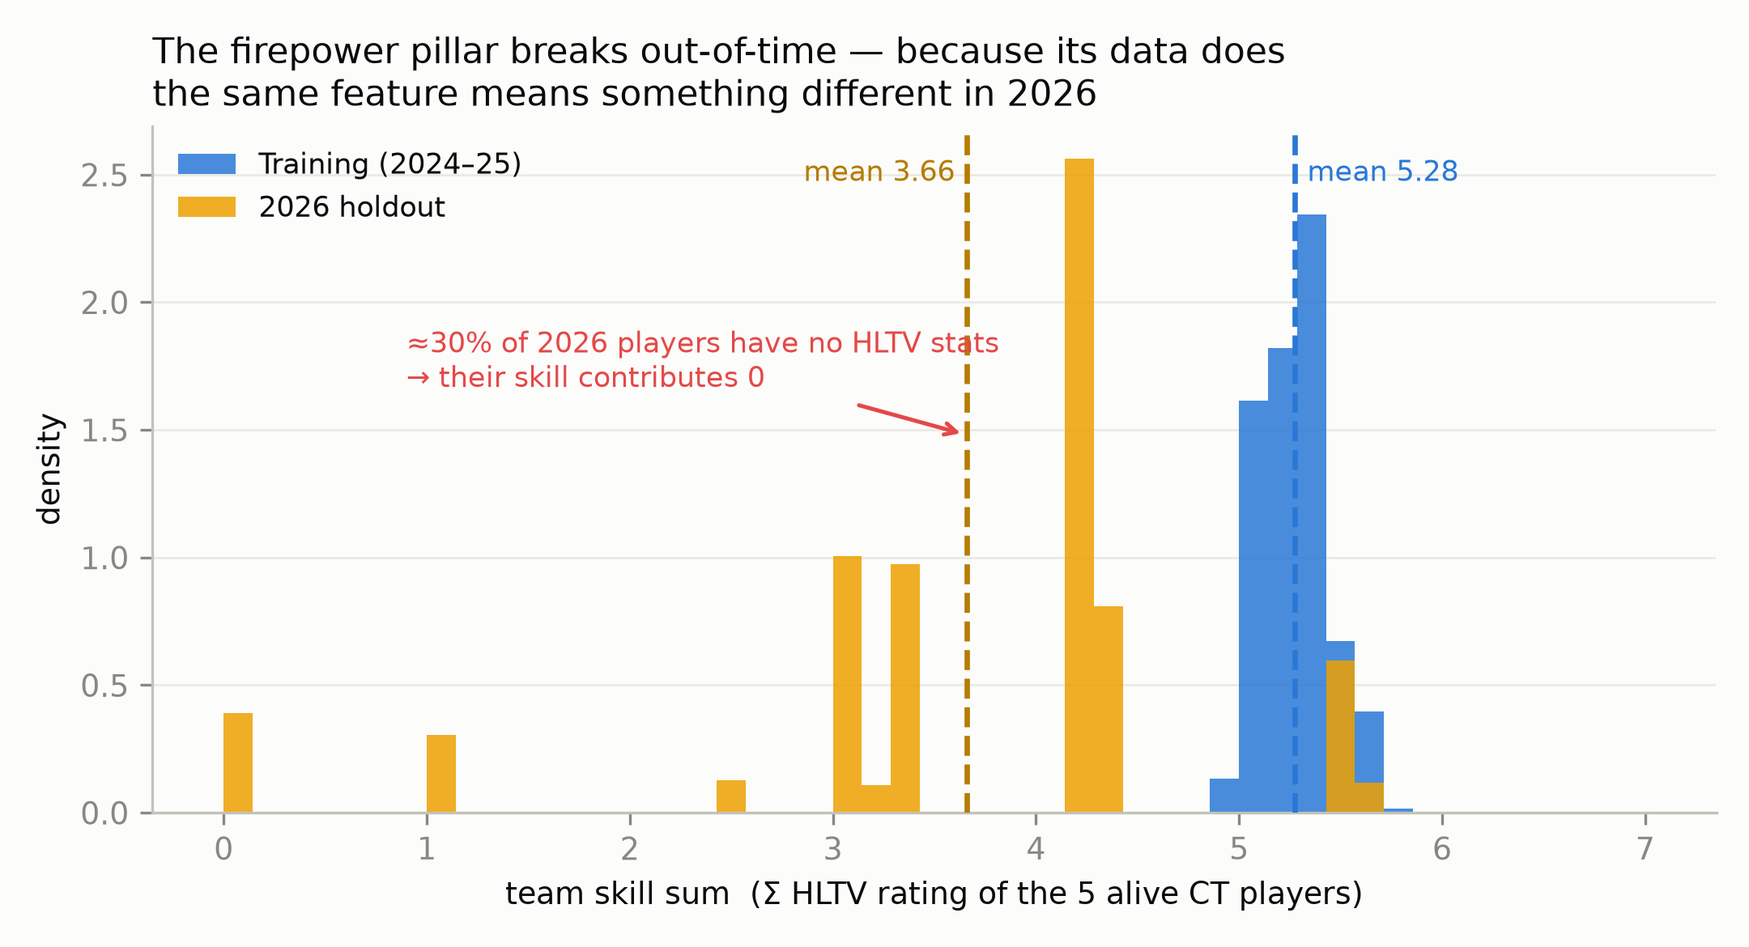
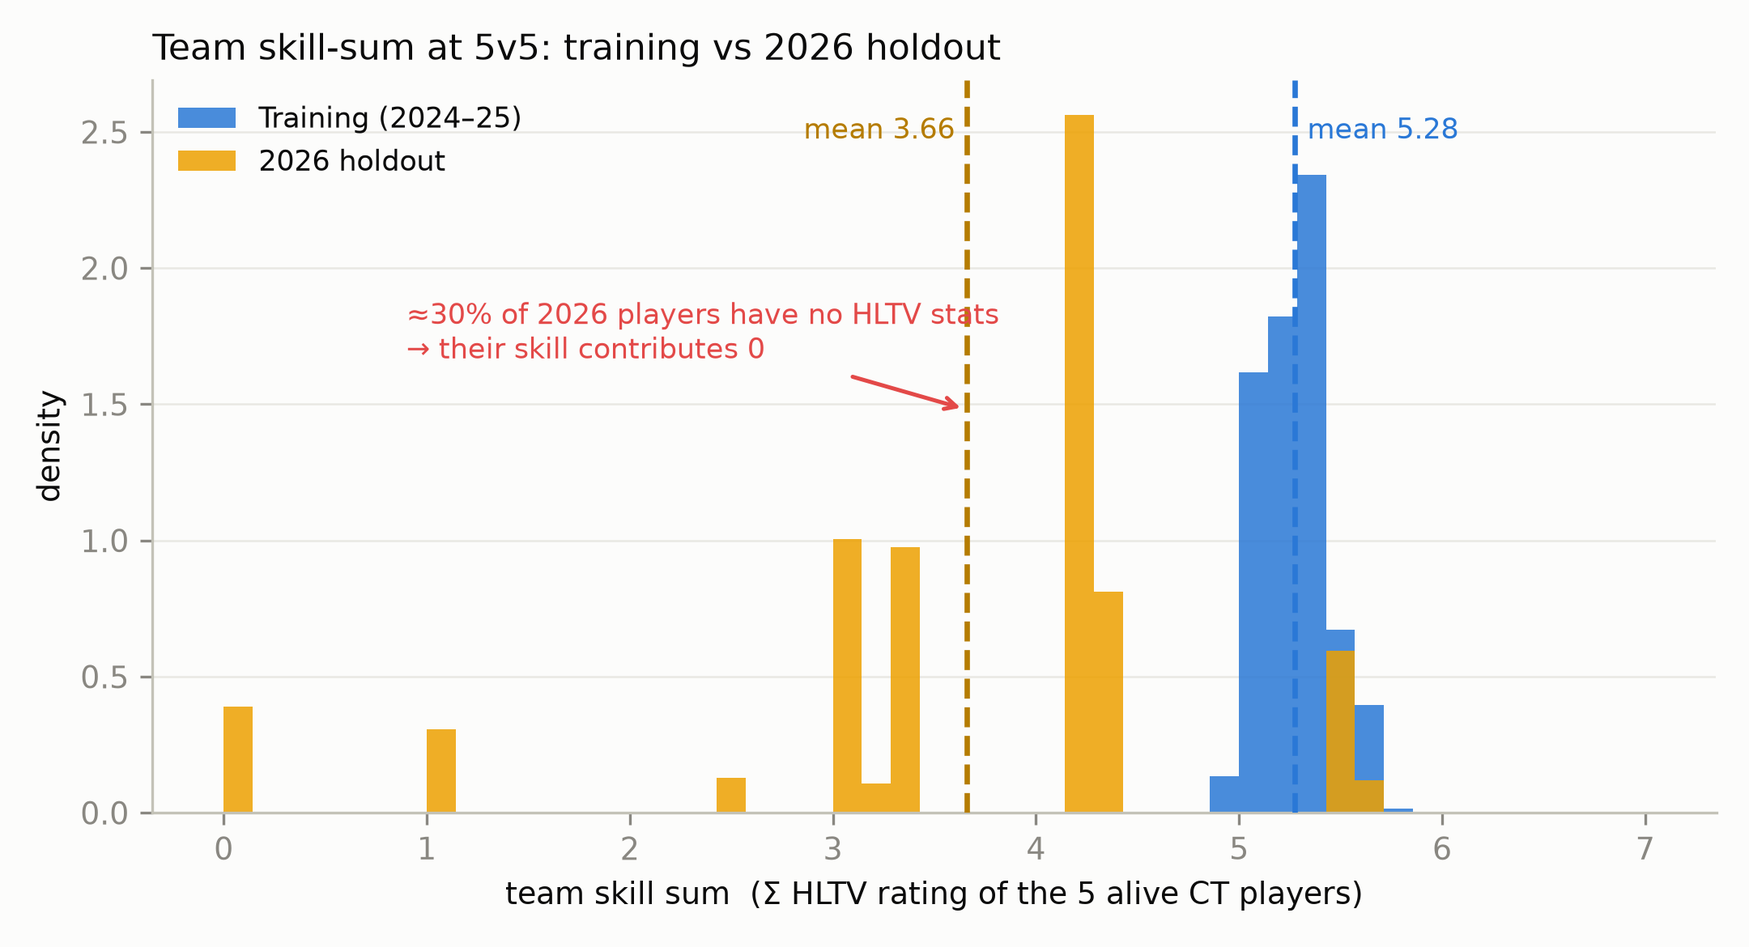
Paper v5: professionalization pass part 1 + de-editorialized figures
Begins the move to submission register (formal, result-first, concise;
no colloquialisms or em-dash asides), per the paper-writing-style
standard.

- Abstract and Introduction rewritten to formal academic register.
- Removed the 'A note on what this draft is' lab-notebook subsection.
- New 'Uncertainty and significance testing' subsection states the
  method precisely: paired match-level block bootstrap on the
  difference; a lift is significant iff the paired dAUC CI excludes
  zero; overlapping marginal CIs do NOT imply non-significance. This is
  the rigorous basis for 'pillars beat baseline (sig)' vs 'nine
  architectures tie (not sig)'.
- All paper figure titles de-editorialized (F1/F2/F4/F6): the title now
  states what the figure shows, the message moves to the caption, as in
  a published paper. Figures regenerated.

Deferred to part 2 (after firepower v3): results/discussion register
pass, and cutting the 'Chronology' section (its firepower content will
change with v3, so finalizing now is premature).

diff --git a/docs/paper/tex/main.tex b/docs/paper/tex/main.tex
@@ -47,7 +47,7 @@
 % regenerated.  The version is stamped on the title page so that a
 % printed or emailed PDF is never ambiguous about which draft it is.
 % ---------------------------------------------------------------------
-\newcommand{\draftversion}{v4}
+\newcommand{\draftversion}{v5}
 
 \title{\textbf{Where Win Probability Comes From --- and Where It Breaks}\\[2mm]
 \large Spatial Control, Bomb Geometry, and an Out-of-Time Reality Check
@@ -65,49 +65,47 @@ University of Pennsylvania. \texttt{hyhuang@sas.upenn.edu}}
 
 \begin{abstract}
 \noindent
-Live win-probability models are now standard broadcast furniture in esports, yet
-the published Counter-Strike literature evaluates them almost exclusively on
-economy and combat state, pooled over all game situations, and validated only by
-cross-validation. We build a per-second win-probability model for
-Counter-Strike~2 (map: \textit{de\_inferno}) from 220 professional matches
-(476{,}595 per-second snapshots) and use it to ask three questions the pooled-AUC
-convention obscures: \emph{where} does the signal live, \emph{which} spatial
-representation is predictive, and \emph{does any of it survive deployment?}
+Live win-probability models are widely deployed in esports broadcasting, yet the
+published Counter-Strike literature evaluates them almost exclusively on economy and
+combat state, pooled across all game situations, and validated only by
+cross-validation. We build a per-second win-probability model for Counter-Strike~2
+on the map \textit{de\_inferno} from 220 professional matches (476{,}595 per-second
+snapshots) and use it to examine three questions that pooled AUC obscures: where the
+predictive signal is concentrated, which spatial representation is most predictive,
+and whether the model's performance survives temporal distribution shift.
 
-First, the conventional headline AUC ($\approx 0.85$) is carried almost entirely
-by lopsided game states; restricted to genuinely even rounds --- equal players
-alive and equal equipment --- every model falls to $\approx 0.58$, barely above a
-coin flip. We formalise this as \emph{contested-AUC} and argue it, not pooled AUC,
-is the metric a live model should be judged on. Second, adapting Voronoi pitch
-control from football, we compare three increasingly \emph{physically faithful}
-map-control representations and find that faithfulness and predictiveness diverge:
-an instantaneous line-of-sight / field-of-view / smoke model is the most realistic
-and the \emph{least} predictive, regaining parity with naive proximity control
-only once it is given temporal memory. Territorial control is predictive because it
-is \emph{stable}, not because it is \emph{correct}. Third, a physically-motivated
-\emph{defuse-race} feature --- fuse time remaining minus the nearest
-counter-terrorist's path time minus the defuse duration --- is the single strongest
-addition beyond economy, cutting post-plant log-loss by 7--8\,\%. Fourth, across
-nine architectures (logistic regression, random forest, XGBoost, LightGBM,
-CatBoost, a causal TCN, a causal Transformer, a player-graph attention network, and
-an ensemble), with match-level block-bootstrap confidence intervals, \emph{all} are
-statistically indistinguishable --- a dead heat that persists out-of-time, where the sequence
-models land exactly on the classical number.
+We report four findings. First, the conventional AUC of approximately $0.85$ is
+attributable predominantly to lopsided game states. Restricted to even rounds, defined
+as equal players alive and near-equal equipment, every model attains an AUC of
+approximately $0.58$. We term this conditional measure \emph{contested-AUC} and argue
+that it, rather than pooled AUC, is the appropriate criterion for a live model. Second,
+we adapt Voronoi pitch control from association football and compare three map-control
+representations of increasing physical fidelity. Fidelity and predictiveness diverge:
+an instantaneous line-of-sight, field-of-view, and smoke model is the most realistic
+representation and the least predictive, and it regains parity with proximity-based
+control only when augmented with temporal memory. Predictive value derives from the
+temporal stability of the representation rather than its instantaneous accuracy. Third,
+a physically motivated \emph{defuse-race} feature, defined as the fuse time remaining
+minus the nearest counter-terrorist's path time and defuse duration, is the strongest
+single addition beyond economy and reduces post-plant log-loss by 7--8\%. Fourth, across
+nine architectures (logistic regression, random forest, XGBoost, LightGBM, CatBoost, a
+causal temporal convolutional network, a causal Transformer, a player-graph attention
+network, and an ensemble), evaluated with match-level block-bootstrap confidence
+intervals, the models are statistically indistinguishable, both in cross-validation and
+out-of-time.
 
-Finally, we subject the model to a \textbf{touch-once out-of-time holdout} on 27
-unseen 2026 matches. The demo-derived pillars transfer essentially perfectly
-($0.8493 \to 0.8501$), but the best in-sample configuration becomes the
-\emph{worst} out-of-time ($0.8519 \to 0.8236$, ECE $0.016 \to 0.071$) because its
-player-skill pillar carries an \emph{inference-time data dependency}: it requires
-an external, per-era player database that the deployment era does not yet have. We
-argue this failure mode --- invisible to cross-validation by construction --- is a
-general hazard for any ``prior'' feature sourced outside the observation itself.
-Repairing the dependency across three constructions --- a leak-free \emph{lagged}
-prior, and even a leaky same-era \emph{oracle} at 100\,\% coverage --- restores
-calibration completely, yet the skill pillar \emph{still} fails to beat the
-demo-only model out-of-time under \emph{any} of them. This turns a plumbing bug
-into a rigorous negative result: even a correctly-constructed, coverage-complete
-external skill prior is not worth its cost here.
+We then evaluate the model once on a temporally held-out set of 27 unseen 2026 matches.
+The features derived from the match itself transfer with negligible degradation
+($0.8493 \to 0.8501$), whereas the best cross-validated configuration degrades most
+($0.8519 \to 0.8236$; expected calibration error $0.016 \to 0.071$) because its
+player-skill pillar depends on an external, per-era statistics database that is
+incomplete for the deployment period. This failure mode is invisible to
+cross-validation by construction. Reconstructing the prior under three data
+regimes, including a leak-free lagged prior and a leaky same-era prior at full
+coverage, restores calibration but does not enable the skill pillar to exceed the
+skill-free model out-of-time under any regime. The result is a controlled negative
+finding: a correctly constructed, coverage-complete external skill prior does not
+improve out-of-time performance in this setting.
 \end{abstract}
 
 \tableofcontents
@@ -119,62 +117,51 @@ external skill prior is not worth its cost here.
 \section{Introduction}
 \label{sec:intro}
 
-Win probability is the interpretive backbone of live sports coverage: it converts a
-complex state into one number a viewer can act on. In esports the state is unusually
-rich --- every player's position, velocity, view angle, health, equipment and utility
-are recorded at 64\,Hz --- and yet published Counter-Strike win-probability models
-remain dominated by \emph{economy} features (equipment value, players alive, bomb
-status). The spatial half of the game, which players and analysts talk about
-constantly (``we lost map control'', ``they're stacked B''), is largely unmodelled.
+Win probability converts a complex game state into a single interpretable quantity and
+is a standard component of live sports analytics. In esports the underlying state is
+unusually detailed: each player's position, velocity, view angle, health, equipment,
+and utility are recorded at 64\,Hz. Nonetheless, published Counter-Strike
+win-probability models remain dominated by economy features such as equipment value,
+players alive, and bomb status. The spatial component of the game, which is central to
+expert reasoning, is largely unmodelled.
 
-Three methodological habits in this literature obscure how good these models really
-are:
-
-\begin{enumerate}
-  \item \textbf{Pooled evaluation.} A single AUC over all snapshots mixes 5-v-1
-    blowouts with 5-v-5 stalemates. A model that only knows ``who has more players
-    and money'' scores well because most snapshots are easy.
-  \item \textbf{Faithfulness assumed to imply predictiveness.} Richer spatial models
-    (line-of-sight, vision cones, smoke occlusion) are assumed superior because they
-    are physically truer.
-  \item \textbf{Cross-validation as the final gate.} Random or grouped folds sample
-    from the same era as training; they cannot see failures that appear only when the
-    world moves on.
-\end{enumerate}
+We identify three methodological conventions in this literature that obscure how
+predictive these models actually are. First, evaluation is pooled: a single AUC computed
+over all snapshots aggregates decided situations (for example, five players against one)
+with genuinely uncertain ones (five against five on equal economy), and a model that
+captures only headcount and equipment scores well because most snapshots are easily
+classified. Second, physical fidelity is assumed to imply predictiveness: representations
+that model line of sight, field of view, and smoke occlusion are presumed superior
+because they more faithfully describe the game. Third, cross-validation is treated as the
+final validation step, even though random or grouped folds are drawn from the same period
+as the training data and cannot expose failures that arise under temporal distribution
+shift.
 
 \subsection{Contributions}
 
 \begin{itemize}
-  \item \textbf{C1 --- Contested-AUC} (Sect.~\ref{sec:contested}). A conditional
-    evaluation lens. Restricting to snapshots with equal players alive \emph{and}
-    near-equal equipment, the economy baseline falls from $0.846$ to
-    $\mathbf{0.580}$. Pooled AUC systematically flatters win-probability models.
-  \item \textbf{C2 --- Three map-control representations, and a negative result}
-    (Sect.~\ref{sec:mapcontrol}). The most physically faithful is the least
-    predictive; temporal memory restores it. \emph{Predictiveness comes from
-    stability, not fidelity.}
-  \item \textbf{C3 --- Defuse-race geometry} (Sect.~\ref{sec:bomb}). One
-    physically-derived feature is the strongest post-economy addition, cutting
-    post-plant log-loss 7--8\,\% while \emph{preserving} calibration.
-  \item \textbf{C4 --- Nine architectures, one dead heat, and an out-of-time reality
-    check} (Sects.~\ref{sec:deep}, \ref{sec:holdout}). Sequence and graph deep models
-    are statistically tied with a calibrated logistic regression; and on a touch-once
-    2026 holdout the skill-prior pillar collapses through an inference-time data
-    dependency while the demo-derived pillars transfer intact.
+  \item \textbf{Contested-AUC} (Sect.~\ref{sec:contested}). We introduce a conditional
+    evaluation measure restricted to snapshots with equal players alive and near-equal
+    equipment. Under this measure the economy baseline falls from $0.846$ to $0.580$,
+    demonstrating that pooled AUC substantially overstates model performance in the
+    situations that determine round outcomes.
+  \item \textbf{A map-control ablation} (Sect.~\ref{sec:mapcontrol}). We compare three
+    representations of increasing physical fidelity and find that the most faithful is
+    the least predictive, and that adding temporal memory restores its predictive value.
+    Predictiveness follows from temporal stability rather than instantaneous fidelity.
+  \item \textbf{Defuse-race geometry} (Sect.~\ref{sec:bomb}). A single physically
+    derived feature is the strongest addition beyond economy, reducing post-plant
+    log-loss by 7--8\% without degrading calibration.
+  \item \textbf{An out-of-time evaluation of nine architectures} (Sects.~\ref{sec:deep},
+    \ref{sec:holdout}). Sequence and graph neural models are statistically
+    indistinguishable from a calibrated logistic regression, in cross-validation and
+    out-of-time. On a temporally held-out 2026 set, the player-skill pillar degrades
+    sharply through a dependence on an external, per-era database, while the features
+    derived directly from the match transfer intact.
 \end{itemize}
 
-We believe C4 is the most transferable lesson: it is a statement about evaluation
-protocol, not about Counter-Strike.
-
-\subsection{A note on what this draft is}
-
-This is a \emph{working draft} and it documents the \textbf{process}, not only the
-conclusions. Where we built something that did not work --- an instantaneous vision
-model that under-performed a cruder one, two bomb features that added nothing, a
-skill pillar whose top-ranked feature turned out to be a re-encoding of the player
-count --- we report it, with the diagnostic figure that revealed it. Sect.~\ref{sec:chronology}
-gives the chronology explicitly. Negative results are the majority of the work and
-we treat them as first-class.
+The final contribution is the most general: it concerns evaluation protocol for models
+that incorporate externally sourced features, and is not specific to Counter-Strike.
 
 % =====================================================================
 \section{Related Work}
@@ -492,26 +479,37 @@ inflates AUC. All in-time numbers in this paper are out-of-fold (OOF) prediction
     to bin placement); and a comeback/tail diagnostic (Sect.~\ref{sec:calibration}).
 \end{description}
 
-\subsection{Uncertainty}
-\textbf{Match-level block bootstrap} ($B = 500$). \emph{Matches}, not snapshots, are the
-independent resampling unit; each iteration draws all matches with replacement and
-recomputes \emph{every} metric on the fixed OOF predictions. This yields 95\,\% CIs on
-AUC, log-loss, Brier, ECE, BSS and contested-AUC alike.
+\subsection{Uncertainty and significance testing}
+\label{sec:significance}
+We quantify uncertainty with a match-level block bootstrap ($B = 500$). Matches, rather
+than snapshots, are the independent resampling unit, because rounds within a match are
+strongly correlated; treating the $476{,}595$ snapshots as independent would understate
+every interval by more than an order of magnitude. Each bootstrap iteration draws the set
+of matches with replacement and recomputes the metric on the fixed out-of-fold
+predictions, yielding percentile 95\% confidence intervals.
 
-This choice is load-bearing. Treating the $\approx$476k snapshots as independent would
-shrink every interval by more than an order of magnitude and make all of our pillar
-effects look spuriously decisive --- and would, in particular, have let us claim the deep
-models beat the classical ones. They do not (Sect.~\ref{sec:deep}). DeLong's test
-corroborates the AUC differences; deep models additionally report a multi-seed mean $\pm$
-sd.
+Comparisons between two feature sets or two models use a \emph{paired} bootstrap: on each
+resample we evaluate both configurations on the same set of matches and record their
+difference, and we report the 95\% interval of that difference. A feature set is deemed to
+improve on the baseline when the paired interval of the AUC difference excludes zero. This
+paired construction is essential, because the two configurations produce strongly
+correlated errors, and the interval of the difference is therefore substantially narrower
+than a comparison of the two marginal intervals would suggest. Overlap of two marginal
+confidence intervals does not imply that their difference is non-significant; the paired
+difference is the correct test \cite{delong1988comparing}. Under this test the pillar
+contributions relative to the economy baseline are significant on AUC, whereas the nine
+architectures are mutually indistinguishable (Sects.~\ref{sec:contested}, \ref{sec:deep}).
+DeLong's test corroborates the AUC differences, and the deep models additionally report a
+multi-seed mean and standard deviation. Significance is established formally on AUC; the
+proper scoring rules (log-loss, Brier) improve monotonically with it but are reported as
+point estimates with marginal intervals.
 
-\subsection{Out-of-time}
-A \textbf{touch-once} 2026 holdout (Sect.~\ref{sec:holdout}). We ran it exactly once. No
-model, feature or hyperparameter decision in this paper was made after seeing it. We state
-this explicitly because the holdout is the source of our headline claim, and its
-evidential value is entirely contingent on that discipline. Any subsequent re-run (e.g.\
-after the 2026 skill scrape completes) must be reported as a separate, disclosed
-evaluation --- not folded silently into these numbers.
+\subsection{Out-of-time evaluation}
+The 2026 holdout is evaluated exactly once. No model, feature, or hyperparameter decision
+was made after observing it, because the evidential value of a held-out evaluation is
+contingent on that discipline. Any subsequent re-evaluation, such as after an updated
+skill database becomes available, is reported as a separate and explicitly disclosed
+result rather than combined with the original.
 
 % =====================================================================
 \section{Results}

diff --git a/src/viz/paper_figures.py b/src/viz/paper_figures.py
@@ -80,8 +80,7 @@ def fig_forest():
     ax.axvline(0.8531, color=MUTED, ls=":", lw=1, zorder=1)
     ax.set_yticks(y); ax.set_yticklabels([r[0] for r in rows], fontsize=8.5)
     ax.set_xlabel("AUC  (5-fold GroupKFold OOF, 95% match-level bootstrap CI, B=500)")
-    ax.set_title("All nine architectures are statistically indistinguishable\n"
-                 "every point estimate lies inside the others' 95% CIs", fontsize=10.5, loc="left")
+    ax.set_title("Model AUC with 95% match-level bootstrap CIs", fontsize=10.5, loc="left")
     handles = [plt.Line2D([], [], color=c, marker=m, ls="-", lw=2, ms=7, label=k)
                for k, (c, m) in fam.items()]
     ax.legend(handles=handles, loc="lower right", frameon=False, fontsize=8.5)
@@ -121,9 +120,7 @@ def fig_collapse(df, y):
     ax.set_xticks(x); ax.set_xticklabels([s[0] for s in subsets], fontsize=8.5)
     ax.set_ylabel("AUC (out-of-fold, XGBoost)")
     ax.set_ylim(0.5, 0.90)
-    ax.set_title("The headline AUC is carried by lopsided snapshots\n"
-                 "in genuinely even rounds every model falls toward a coin-flip",
-                 fontsize=10.5, loc="left")
+    ax.set_title("AUC by round subset (XGBoost, out-of-fold)", fontsize=10.5, loc="left")
     ax.legend(frameon=False, fontsize=8.5, loc="upper right")
     ax.grid(axis="y", alpha=0.7, zorder=0); ax.set_axisbelow(True)
     fig.tight_layout(); fig.savefig(OUT / "F2_collapse.png", dpi=300); plt.close(fig)
@@ -183,8 +180,7 @@ def fig_datagap(tr, te):
                 arrowprops=dict(arrowstyle="->", color=RED, lw=1.2))
     ax.set_xlabel("team skill sum  (Σ HLTV rating of the 5 alive CT players)")
     ax.set_ylabel("density")
-    ax.set_title("The firepower pillar breaks out-of-time — because its data does\n"
-                 "the same feature means something different in 2026", fontsize=10.5, loc="left")
+    ax.set_title("Team skill-sum at 5v5: training vs 2026 holdout", fontsize=10.5, loc="left")
     ax.legend(frameon=False, fontsize=8.5)
     ax.grid(axis="y", alpha=0.7, zorder=0); ax.set_axisbelow(True)
     fig.tight_layout(); fig.savefig(OUT / "F4_datagap.png", dpi=300); plt.close(fig)

diff --git a/src/viz/firepower_three_variants.py b/src/viz/firepower_three_variants.py
@@ -79,7 +79,7 @@ def main():
     ax1.set_ylim(min(allv) - 0.004, eb2 + 0.004)
     ax1.set_xticks(x); ax1.set_xticklabels([NICE[m] for m in MODELS], fontsize=8, rotation=15)
     ax1.set_ylabel("2026 out-of-time AUC (set EFB2, with firepower)")
-    ax1.set_title("Firepower across three data constructions\n" + verdict, fontsize=10, loc="left")
+    ax1.set_title("EFB2 out-of-time AUC by skill-prior construction", fontsize=10, loc="left")
     ax1.legend(loc="lower right", frameon=False, fontsize=7.6)
 
     # ---- right: calibration intercept, 3 variants ----
@@ -89,9 +89,7 @@ def main():
     ax2.axhline(0, color=AXIS, lw=1)
     ax2.set_xticks(x); ax2.set_xticklabels([NICE[m] for m in MODELS], fontsize=8, rotation=15)
     ax2.set_ylabel("calibration intercept (negative = over-confident in CTs)")
-    ax2.set_title("Calibration: the coverage gap is the whole story\n"
-                  "only the broken build is miscalibrated; both fixes sit near 0",
-                  fontsize=10, loc="left")
+    ax2.set_title("EFB2 calibration intercept by skill-prior construction", fontsize=10, loc="left")
     ax2.legend(loc="lower right", frameon=False, fontsize=7.6)
 
     fig.tight_layout()

diff --git a/docs/paper/CHANGELOG.md b/docs/paper/CHANGELOG.md
@@ -130,6 +130,33 @@ COMPLETE.
 
 ---
 
+## v5 — 2026-07-29 — professionalization pass (part 1) + figure de-editorialization
+
+Tag: `paper-v5` · Zip: `CS2_winprob_overleaf_v5.zip` · Class: `article`
+
+**Changed.** Begins the professionalization pass toward submission register (formal, result-first,
+concise; no colloquialisms; no em-dash asides). Completed in this pass:
+- **Abstract** rewritten to formal register.
+- **Introduction** rewritten; removed the "A note on what this draft is" lab-notebook subsection.
+- **Evaluation → new "Uncertainty and significance testing" subsection** that states the method
+  precisely: match-level *paired* block bootstrap on the difference; a lift is significant when the
+  paired ΔAUC interval excludes zero; overlapping marginal CIs do NOT imply non-significance. This is
+  the rigorous basis for "pillars beat baseline (significant)" vs "architectures tie (not)".
+- **All paper figure titles de-editorialized** (F1, F2, F4, F6): titles now state what the figure
+  shows; the interpretive message lives in the caption, as in a published paper. Figures regenerated.
+
+**Deferred to part 2 (after firepower v3 lands):** results and discussion sections still carry the
+conversational register, and the "Chronology: how we actually got here" section should be cut or moved
+to an appendix. These are deferred deliberately because the firepower results subsection will change
+when v3 (team-ranking-weighted) is benchmarked, so finalizing its prose now would be premature.
+
+**Re-upload to Overleaf.** main.tex + regenerated figures F1, F2, F4, F6.
+
+**Still open.** refs.bib unverified; Leu's affiliation; PARCC acknowledgement; Appendix B tables;
+professionalization part 2 (results/discussion + cut Chronology); GAT out-of-time.
+
+---
+
 ## vNext — template (copy this block, don't edit v1)
 
 ```
